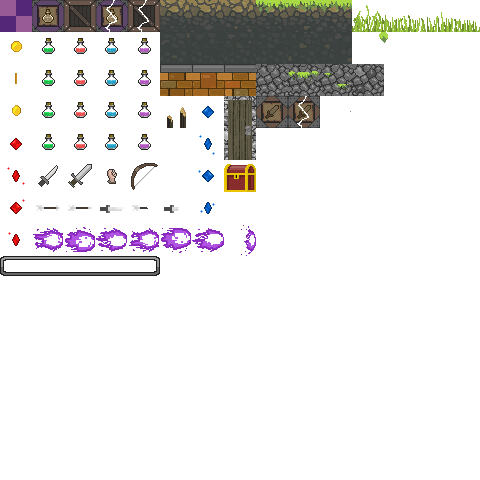
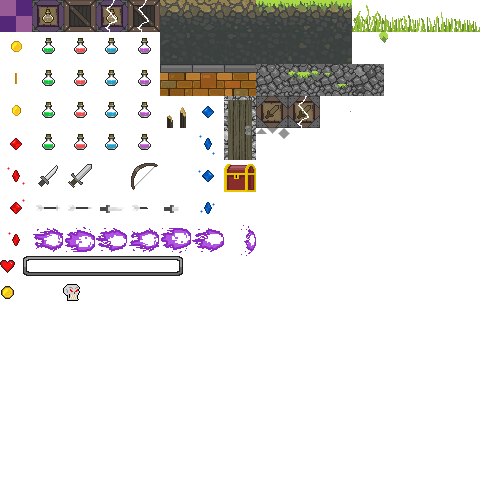
Finition menu

diff --git a/platformer/javascript/gamestates/MenuState.js b/platformer/javascript/gamestates/MenuState.js
@@ -1,35 +1,126 @@
 function MenuState(gsh){
     var choices = [
         'Jouer',
-        'Difficulté',
-        'Touches'
+        'Mode de jeu'
     ];
+
+    var timers;
 
     var modes = Object.keys(platformer.mode);
 
-    var selected;
-    var posY = 0;
+    var selectedChoice;
+    var targetLogoPosY = 0;
+    var logoPosY = 0;
 
     var logoWidth = 355 * platformer.scale;
     var logoHeight = 122 * platformer.scale;
 
     var background;
 
+
     this.init = function(){
-        selected = 0;
-        posY = 0;
+        var storedMode = parseInt(JSON.parse(localStorage.getItem('platformer_difficulty')));
+        if(typeof storedMode !== 'undefined'){
+            setActiveMode(storedMode);
+        }
+
+        selectedChoice = 0;
+
+        timers = new TimerManager;
+
+        logoPosY = 0;
 
         background = new Background('#000000', null);
         background.init();
     }
 
     this.update = function(){
-        var targetPosY = (platformer.game.getScreenHeight() - logoHeight) / 2;
-        posY = lerp(posY, targetPosY, 0.05);
+        targetLogoPosY = platformer.game.getScreenHeight() / 2 - logoHeight;
+        if(logoPosY < targetLogoPosY) logoPosY = lerp(logoPosY, targetLogoPosY, 0.05);
+        else logoPosY = targetLogoPosY;
+
+        timers.update();
     }
 
     this.render = function(ctx){
-        ctx.drawImage(platformer.textures.logo, (platformer.game.getScreenWidth() - logoWidth) / 2, posY, logoWidth, logoHeight);
+        /**
+        * LOGO
+        */
+        ctx.drawImage(platformer.textures.logo, (platformer.game.getScreenWidth() - logoWidth) / 2, logoPosY, logoWidth, logoHeight);
+
+        /**
+        * STATS
+        */
+        ctx.save();
+        ctx.font = '12pt ' + platformer.font;
+        ctx.textAlign = 'left';
+        ctx.fillStyle = '#dadada';
+        ctx.fillText('', 48, 48);
+        ctx.restore();
+
+        /**
+        * MENU
+        */
+        ctx.save();
+        ctx.font = '14pt ' + platformer.font;
+        ctx.lineWidth = 3;
+        ctx.textAlign = 'center';
+
+        var menuY = targetLogoPosY + logoHeight;
+        var arrowWidth = 11 * platformer.scale;
+        var arrowHeight = 6 * platformer.scale;
+
+        // flèches de sélection verticales
+        ctx.drawImage(platformer.textures.gui.arrows[0], (platformer.game.getScreenWidth() - arrowWidth) / 2, menuY, arrowWidth, arrowHeight);
+        ctx.drawImage(platformer.textures.gui.arrows[1], (platformer.game.getScreenWidth() - arrowWidth) / 2, menuY + 64 * choices.length + 20 * 2, arrowWidth, arrowHeight);
+
+
+        menuY += 64 + 20;
+
+
+        for(var i = 0; i < choices.length; i++){
+            var text = choices[i];
+
+            if(selectedChoice == i){
+                // cadre
+                ctx.fillStyle = 'rgba(255, 255, 255, 0.075)';
+                ctx.fillRect(platformer.game.getScreenWidth() / 2 - 100, menuY + i * 64 - 48, 200, 48);
+                ctx.strokeStyle = '#A6374B';
+                ctx.strokeRect(platformer.game.getScreenWidth() / 2 - 100, menuY + i * 64 - 48, 200, 48);
+
+                ctx.fillStyle = '#dadada';
+
+                // flèches de sélection horizontales
+                if(selectedChoice == 1 && i == 1){
+                    text = platformer.difficulty.name;
+
+                    ctx.drawImage(platformer.textures.gui.arrows[2], (platformer.game.getScreenWidth() - arrowHeight) / 2 - 103 - arrowHeight - 20, menuY + i * 64 - 48 + (48 - arrowWidth) / 2, arrowHeight, arrowWidth);
+                    ctx.drawImage(platformer.textures.gui.arrows[3], (platformer.game.getScreenWidth() - arrowHeight) / 2 + 103 + arrowHeight + 20, menuY + i * 64 - 48 + (48 - arrowWidth) / 2, arrowHeight, arrowWidth);
+
+                }
+            }
+            else{
+                ctx.fillStyle = '#353535';
+            }
+
+            ctx.fillText(text, platformer.game.getScreenWidth() / 2, menuY + i * 64 - 4);
+        }
+        ctx.restore();
+
+
+        menuY += choices.length * 64 + 64;
+
+        /**
+        * SYNOPSIS
+        */
+        ctx.save();
+        ctx.font = '12pt ' + platformer.font;
+        ctx.textAlign = 'center';
+        ctx.fillStyle = '#757575';
+        for(var j = 0; j < platformer.difficulty.text.length; j++){
+            ctx.fillText(platformer.difficulty.text[j], platformer.game.getScreenWidth() / 2, menuY + 32 * j);
+        }
+        ctx.restore();
     }
 
     this.renderBackground = function(ctx){
@@ -41,28 +132,70 @@ function MenuState(gsh){
     }
 
     this.keyDown = function(key){
-        navigate(key);
+        choiceNavigation(key);
 
-        if(key == platformer.keylist.action_attack){
-            gsh.setState(1);
+        if(selectedChoice == 1){
+            modeNavigation(key);
+        }
+        else if(selectedChoice == 0){
+            if(key == platformer.keylist.action_attack){
+                platformer.seed = undefined;
+                gsh.setState(1);
+            }
         }
     }
 
 
 
-    function navigate(key){
+    function choiceNavigation(key){
         if(key == platformer.keylist.mvt_up){
-            selected--;
+            selectedChoice--;
         }
         else if(key == platformer.keylist.mvt_down){
-            selected++
+            selectedChoice++
         }
 
-        if(selected < 0){
-            selected = choices.length - 1;
+        if(selectedChoice < 0){
+            selectedChoice = choices.length - 1;
         }
-        if(selected > choices.length - 1){
-            selected = 0;
+        if(selectedChoice > choices.length - 1){
+            selectedChoice = 0;
         }
+    }
+
+    function modeNavigation(key){
+        var mode = getActiveModeID();
+        if(key == platformer.keylist.mvt_left){
+            mode--;
+        }
+        else if(key == platformer.keylist.mvt_right){
+            mode++;
+        }
+
+        setActiveMode(mode);
+    }
+
+    function getActiveModeID(){
+        var modeID = 0;
+        for(var i = 0; i < modes.length; i++){
+            if(platformer.difficulty == platformer.mode[modes[i]]){
+                modeID = i;
+                break;
+            }
+        }
+
+        return modeID;
+    }
+
+    function setActiveMode(mode){
+        if(mode < 0 || isNaN(mode)){
+            mode = 0;
+        }
+        if(mode > modes.length - 1){
+            mode = modes.length - 1;
+        }
+
+        platformer.difficulty = platformer.mode[modes[mode]];
+        localStorage.setItem('platformer_difficulty', JSON.stringify(mode));
     }
 }

diff --git a/platformer/javascript/Platformer.js b/platformer/javascript/Platformer.js
@@ -357,7 +357,13 @@ platformer.getAssets = function(){
 platformer.initTextures = function(resources){
     // textures
     platformer.textures.gui = { };
-    platformer.textures.gui.healthbar = platformer.getSubImage(resources.tilemap, 0, 256, 160, 20);
+    platformer.textures.gui.healthbar = platformer.getSubImage(resources.tilemap, 0, 256, 192, 46);
+    platformer.textures.gui.arrows = [
+        platformer.getSubImage(resources.tilemap, 256, 128, 11, 6),
+        platformer.getSubImage(resources.tilemap, 256 + 11, 128, 11, 6),
+        platformer.getSubImage(resources.tilemap, 256 + 11 + 11, 128, 6, 11),
+        platformer.getSubImage(resources.tilemap, 256 + 11 + 11 + 6, 128, 6, 11)
+    ];
 
     platformer.textures.entity = { };
     platformer.textures.player = { };
@@ -713,18 +719,33 @@ platformer.initTiletypes = function(resources){
 
 platformer.initModes = function(){
     platformer.mode.peaceful = {
+        name : 'Paisible',
+        text : [
+            'PAISIBLE : Récupérer votre coffre sans risque d\'être troublé...',
+            'Ce mode n\'offre aucune récompense en chemin.'
+        ],
+        killAllMobsToComplete : false,
+
         numCols : 100,
         numRows : 20,
 
         crateSpawnChance : 0,
         hostileSpawnRate : 0,
-        coinBridgeSpawnChance : 0.1,
-        bonusChestSpawnChance : 0.1,
+        coinBridgeSpawnChance : 0,
+        bonusChestSpawnChance : 0,
 
         archerSpawnChance : 0,
-        bossSpawnChance : 0
+        bossSpawnChance : 0,
+        healthRatio : 1
     };
     platformer.mode.easy = {
+        name : 'Facile',
+        text : [
+            'FACILE : Votre or a été dérobé par des créatures maléfiques.',
+            'Vous devez récupérer un maximum de pièces, et retrouver votre coffre...'
+        ],
+        killAllMobsToComplete : false,
+
         numCols : 100,
         numRows : 20,
 
@@ -734,30 +755,48 @@ platformer.initModes = function(){
         bonusChestSpawnChance : 0.4,
 
         archerSpawnChance : 0.2,
-        bossSpawnChance : 0
+        bossSpawnChance : 0,
+        healthRatio : 1
     };
     platformer.mode.normal = {
+        name : 'Normal',
+        text : [
+            'NORMAL : Votre or a été dérobé par des créatures maléfiques.',
+            'Vous devez récupérer un maximum de pièces, éliminer TOUS les voleurs, et retrouver votre coffre...'
+        ],
+        killAllMobsToComplete : true,
+
         numCols : 175,
         numRows : 20,
 
-        crateSpawnChance : 0.075,
+        crateSpawnChance : 0.1,
         hostileSpawnRate : 0.15,
         coinBridgeSpawnChance : 0.75,
         bonusChestSpawnChance : 0.4,
 
         archerSpawnChance : 0.3,
-        bossSpawnChance : 0.1
+        bossSpawnChance : 0.1,
+        healthRatio : 1
     };
     platformer.mode.hard = {
+        name : 'Difficile',
+        text : [
+            'DIFFICILE : Votre or a été dérobé par des créatures maléfiques.',
+            'Vous devez récupérer un maximum de pièces, éliminer TOUS les voleurs, et retrouver votre coffre...',
+            'Ce mode offre le plus d\'opportunités de trouver de l\'or. Pour les plus expérimentés.'
+        ],
+        killAllMobsToComplete : true,
+
         numCols : 275,
         numRows : 20,
 
-        crateSpawnChance : 0.05,
+        crateSpawnChance : 0.1,
         hostileSpawnRate : 0.2,
-        coinBridgeSpawnChance : 0.75,
+        coinBridgeSpawnChance : 0.8,
         bonusChestSpawnChance : 0.5,
 
         archerSpawnChance : 0.4,
-        bossSpawnChance : 0.15
+        bossSpawnChance : 0.15,
+        healthRatio : 1.5
     };
 }

diff --git a/platformer/javascript/gamestates/GameStateHandler.js b/platformer/javascript/gamestates/GameStateHandler.js
@@ -11,7 +11,7 @@ function GameStateHandler(){
         // on charge les stages du jeu et on initialise le premier
         states.push(new MenuState(this));
         states.push(new LevelState(this));
-        this.setState(1);
+        this.setState(0);
 
 
         window.addEventListener('keyup', function(e){

diff --git a/style.css b/style.css
@@ -4,6 +4,12 @@ body{
 }
 
 @font-face{
+    font-family: 'Minecraftia-Regular';
+    font-style: normal;
+    font-weight: normal;
+    src: url(./platformer/resources/fonts/Minecraftia-Regular.ttf);
+}
+@font-face{
     font-family: 'silkscreen';
     font-style: normal;
     font-weight: normal;
